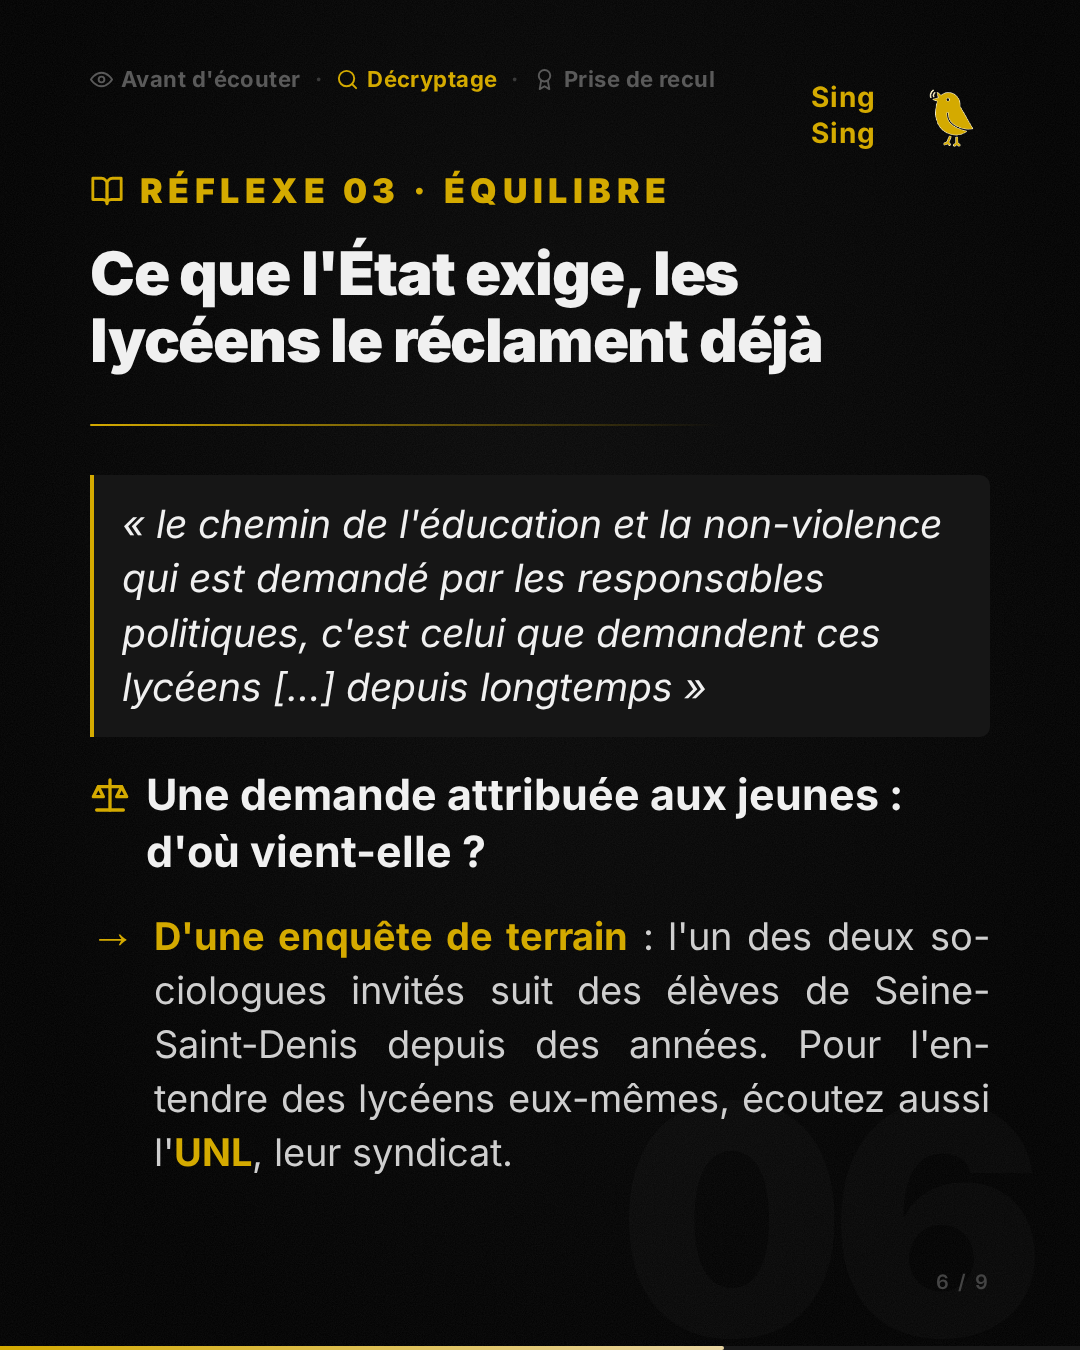
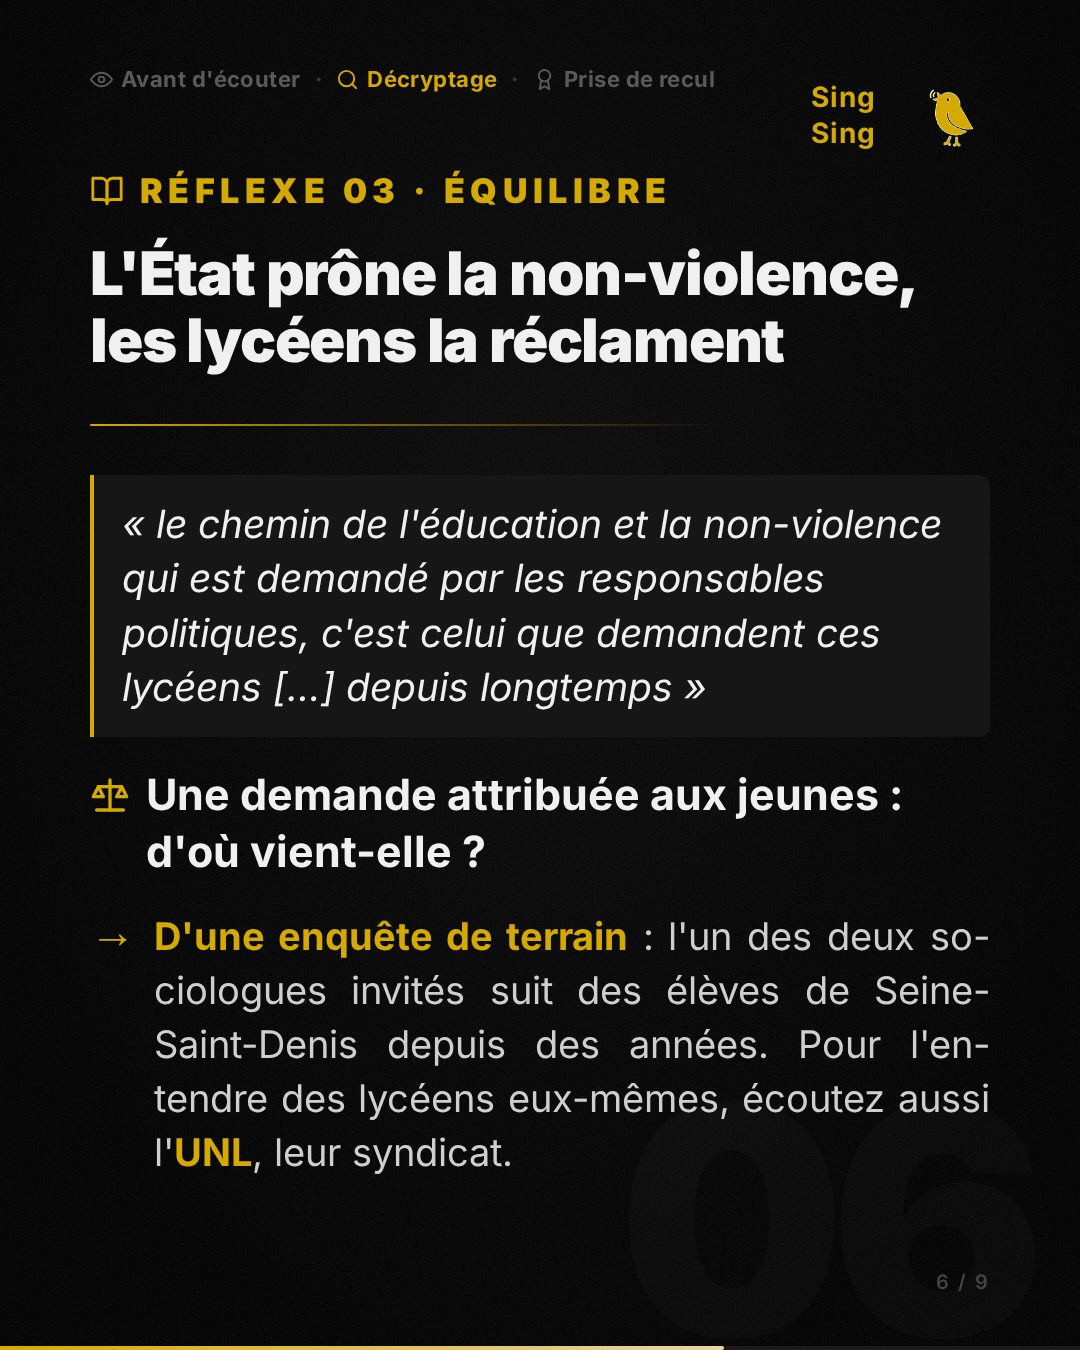
chore(samples): podcast_1 slide 6 names what the State demands
« Ce que l'État exige, les lycéens le réclament déjà » → « L'État prône la
non-violence, les lycéens la réclament ».

Changed region(s): [[0.0917, 0.1556, 0.8556, 0.28]]

diff --git a/samples/podcasts/podcast_1/instagram_carousel_optimized/html/06_moment.html b/samples/podcasts/podcast_1/instagram_carousel_optimized/html/06_moment.html
@@ -452,7 +452,7 @@ body {
 </div>
   <div class="stage">
     <span class="kick"><svg viewBox="0 0 24 24"><path d="M2 3h6a4 4 0 0 1 4 4v14a3 3 0 0 0-3-3H2z"/><path d="M22 3h-6a4 4 0 0 0-4 4v14a3 3 0 0 1 3-3h7z"/></svg>Réflexe 03 &middot; Équilibre</span>
-    <h1 class="head">Ce que l&#39;État exige, les lycéens le réclament déjà</h1>
+    <h1 class="head">L&#39;État prône la non-violence, les lycéens la réclament</h1>
     <div class="divider"></div>
     
     <div class="evidence"><p class="ev-quote">«&#160;le chemin de l&#39;éducation et la non-violence qui est demandé par les responsables politiques, c&#39;est celui que demandent ces lycéens […] depuis longtemps&#160;»</p></div>
